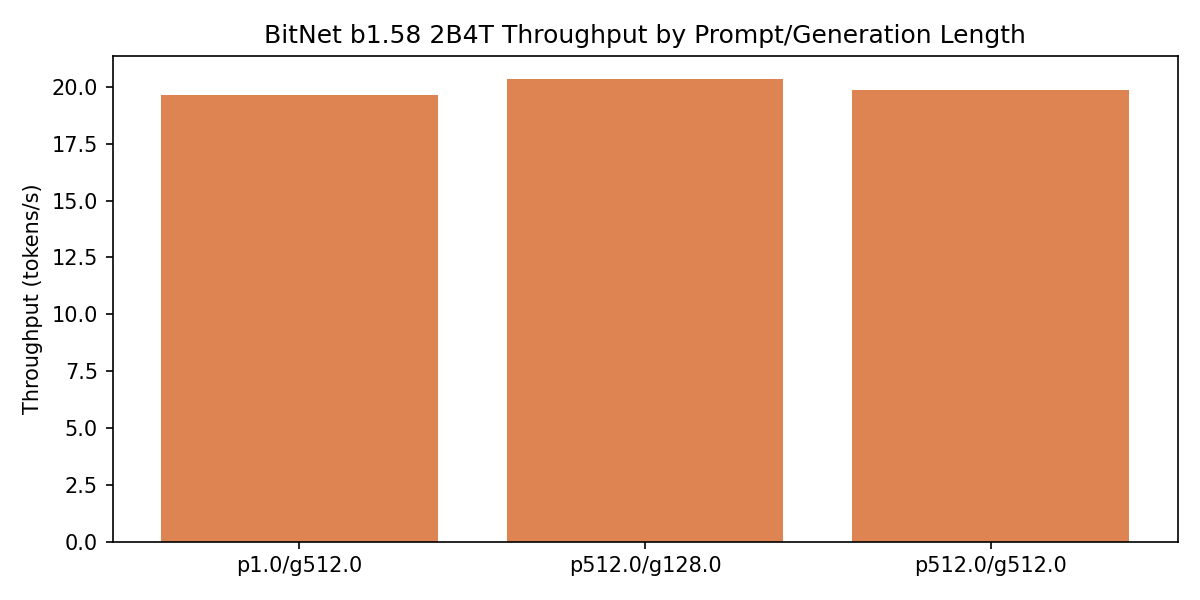
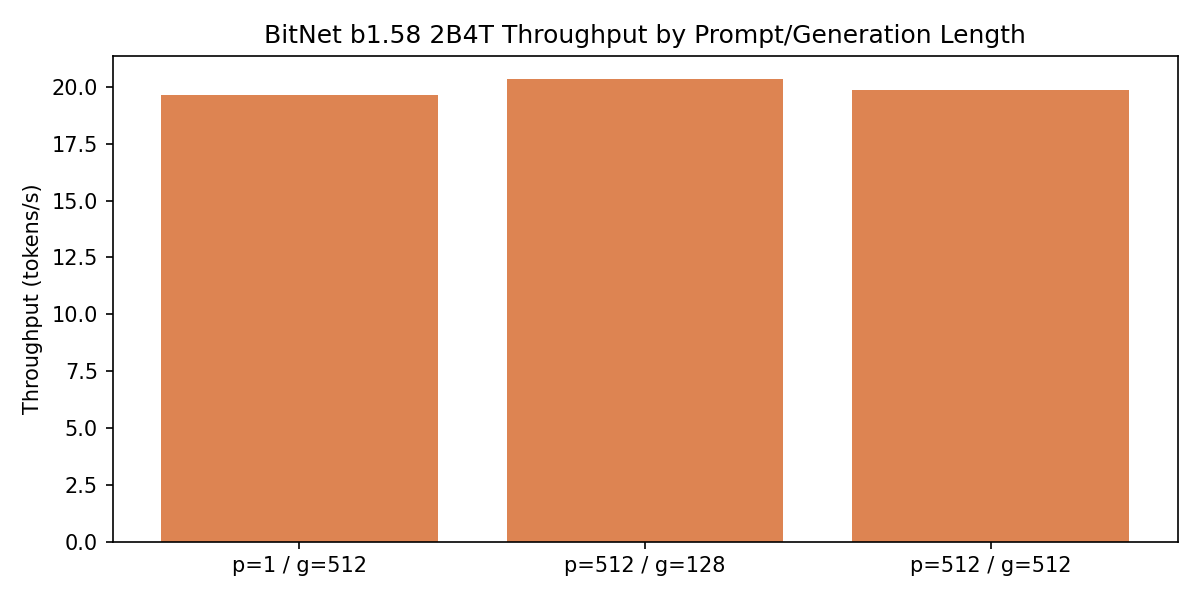
Improve comparison plots: paper vs ours, clean labels, Qwen-ready
- Add BitNet paper bar (hatched) to throughput and memory plots so
  each chart directly shows paper vs our measurement side-by-side
- Fix bitnet_throughput_configs x-axis labels from float notation
  (p512.0/g128.0) to readable form (p=512 / g=128)
- Plot_accuracy now accepts optional qwen_acc; Qwen ours column added
  when qwen_accuracy_results.json exists
- plot_throughput/memory/cost_accuracy all accept optional qwen_df
  and render a green Qwen ours bar/point when data is available
- Add --qwen-results and --qwen-accuracy CLI args; add load_qwen()
  and _qwen_row() helpers; build_comparison_df includes Qwen row
- smoke_test row-count check relaxed to >=7 to allow Qwen ours row

Changed region(s): [[0.74, 0.93, 0.8942, 0.96], [0.4625, 0.93, 0.6167, 0.96], [0.185, 0.93, 0.3083, 0.96]]

diff --git a/scripts/compare_runs.py b/scripts/compare_runs.py
@@ -31,6 +31,8 @@ PLOTS_DIR = Path(__file__).parent.parent / "results" / "plots"
 DEFAULT_CSV = Path(__file__).parent.parent / "results" / "step_metrics.csv"
 DEFAULT_ACCURACY_JSON = Path(__file__).parent.parent / "results" / "accuracy_results.json"
 DEFAULT_COMPARISON_CSV = Path(__file__).parent.parent / "results" / "comparison_table.csv"
+DEFAULT_QWEN_CSV = Path(__file__).parent.parent / "results" / "qwen_metrics.csv"
+DEFAULT_QWEN_ACCURACY_JSON = Path(__file__).parent.parent / "results" / "qwen_accuracy_results.json"
 
 # AWS c5.xlarge on-demand, us-east-1 (4 vCPUs — matches 4-thread benchmark condition)
 # Source: https://instances.vantage.sh/aws/ec2/c5.xlarge (retrieved 2026-05-08)
@@ -78,6 +80,8 @@ def parse_args():
     p = argparse.ArgumentParser()
     p.add_argument("--results", default=str(DEFAULT_CSV))
     p.add_argument("--accuracy", default=str(DEFAULT_ACCURACY_JSON))
+    p.add_argument("--qwen-results", default=str(DEFAULT_QWEN_CSV))
+    p.add_argument("--qwen-accuracy", default=str(DEFAULT_QWEN_ACCURACY_JSON))
     p.add_argument("--csv", default=str(DEFAULT_COMPARISON_CSV))
     p.add_argument(
         "--hardware-rate",
@@ -114,9 +118,27 @@ def load_accuracy(json_path: Path) -> dict:
     }
 
 
+def load_qwen(csv_path: Path) -> pd.DataFrame | None:
+    if not csv_path.exists():
+        return None
+    df = pd.read_csv(csv_path)
+    df = df[df["throughput_tokens_s"].notna() & (df["throughput_tokens_s"] != "")]
+    df["throughput_tokens_s"] = pd.to_numeric(df["throughput_tokens_s"])
+    df["peak_rss_mb"] = pd.to_numeric(df["peak_rss_mb"])
+    return df
+
+
 def _bitnet_row(local_df: pd.DataFrame) -> tuple[float | None, float | None]:
     """Return (median throughput, median peak_rss) for the n_prompt=512, n_gen=128 condition."""
     row = local_df[(local_df["n_prompt"] == 512) & (local_df["n_gen"] == 128)]
+    tps = row["throughput_tokens_s"].median() if not row.empty else None
+    rss = row["peak_rss_mb"].median() if not row.empty else None
+    return tps, rss
+
+
+def _qwen_row(qwen_df: pd.DataFrame) -> tuple[float | None, float | None]:
+    """Return (median throughput, median peak_rss) for Qwen at n_prompt=512, n_gen=128."""
+    row = qwen_df[(qwen_df["n_prompt"] == 512) & (qwen_df["n_gen"] == 128)]
     tps = row["throughput_tokens_s"].median() if not row.empty else None
     rss = row["peak_rss_mb"].median() if not row.empty else None
     return tps, rss
@@ -131,6 +153,8 @@ def build_comparison_df(
     local_df: pd.DataFrame,
     local_acc: dict,
     hardware_rate: float,
+    qwen_df: pd.DataFrame | None = None,
+    qwen_acc: dict | None = None,
 ) -> pd.DataFrame:
     ACC_FIELDS = ["arc_easy", "arc_challenge", "winogrande", "hellaswag", "mmlu"]
     rows = []
@@ -165,6 +189,19 @@ def build_comparison_df(
         **{f: (round(local_acc[f], 2) if local_acc.get(f) is not None else "") for f in ACC_FIELDS},
     })
 
+    if qwen_df is not None:
+        q_tps, q_rss = _qwen_row(qwen_df)
+        q_acc = qwen_acc or {}
+        q_cost = round(cost_per_1k(q_tps, hardware_rate), 6) if q_tps else ""
+        rows.append({
+            "model": "Qwen2.5-1.5B-Instruct Q8_0",
+            "source": "ours",
+            "throughput_tokens_s": round(q_tps, 2) if q_tps is not None else "",
+            "peak_rss_mb": round(q_rss, 0) if q_rss is not None else "",
+            "cost_per_1k_tokens": q_cost,
+            **{f: (round(q_acc[f], 2) if q_acc.get(f) is not None else "") for f in ACC_FIELDS},
+        })
+
     return pd.DataFrame(rows)
 
 
@@ -174,20 +211,49 @@ def write_comparison_csv(df: pd.DataFrame, out_path: Path) -> None:
     print(f"Saved {out_path}")
 
 
-def plot_throughput(local_df: pd.DataFrame, out_dir: Path):
+def plot_throughput(local_df: pd.DataFrame, out_dir: Path, qwen_df: pd.DataFrame | None = None):
+    from matplotlib.patches import Patch
+
     bitnet_tps, _ = _bitnet_row(local_df)
 
-    models = list(FP16_BASELINES.keys()) + ["BitNet b1.58 2B4T"]
-    values = [FP16_BASELINES[m]["throughput_tokens_s"] for m in FP16_BASELINES]
-    values.append(bitnet_tps if bitnet_tps else 0)
-    colors = ["#4C72B0"] * len(FP16_BASELINES) + ["#DD8452"]
+    models = (
+        list(FP16_BASELINES.keys())
+        + ["BitNet b1.58 2B4T (paper)", "BitNet b1.58 2B4T (ours)"]
+    )
+    values = (
+        [FP16_BASELINES[m]["throughput_tokens_s"] for m in FP16_BASELINES]
+        + [BITNET_PAPER["throughput_tokens_s"], bitnet_tps if bitnet_tps else 0]
+    )
+    colors  = ["#4C72B0"] * len(FP16_BASELINES) + ["#DD8452", "#DD8452"]
+    hatches = [""]        * len(FP16_BASELINES) + ["///",     ""]
 
-    fig, ax = plt.subplots(figsize=(10, 5))
-    bars = ax.barh(models, values, color=colors)
-    ax.bar_label(bars, fmt="%.1f", padding=4)
+    if qwen_df is not None:
+        q_tps, _ = _qwen_row(qwen_df)
+        models.append("Qwen2.5-1.5B-Instruct Q8_0 (ours)")
+        values.append(q_tps if q_tps else 0)
+        colors.append("#55A868")
+        hatches.append("")
+
+    fig, ax = plt.subplots(figsize=(10, max(5, len(models) * 0.55)))
+    max_val = max(v for v in values if v) or 1
+    for i, (val, color, hatch) in enumerate(zip(values, colors, hatches)):
+        ax.barh(i, val, color=color, hatch=hatch,
+                edgecolor="#444444" if hatch else "#cccccc", linewidth=0.5)
+        ax.text(val + max_val * 0.01, i, f"{val:.1f}", va="center", fontsize=9)
+    ax.set_yticks(range(len(models)))
+    ax.set_yticklabels(models)
     ax.set_xlabel("Throughput (tokens/s)")
     ax.set_title("Inference Throughput: BitNet b1.58 2B4T vs FP16 Baselines\n(n_prompt=512, n_gen=128, CPU)")
+    ax.set_xlim(0, max_val * 1.15)
     ax.invert_yaxis()
+    legend_handles = [
+        Patch(facecolor="#4C72B0", edgecolor="#cccccc", label="FP16 baseline (paper)"),
+        Patch(facecolor="#DD8452", hatch="///", edgecolor="#444444", label="BitNet b1.58 2B4T (paper)"),
+        Patch(facecolor="#DD8452", edgecolor="#cccccc", label="BitNet b1.58 2B4T (ours)"),
+    ]
+    if qwen_df is not None:
+        legend_handles.append(Patch(facecolor="#55A868", edgecolor="#cccccc", label="Qwen2.5-1.5B Q8_0 (ours)"))
+    ax.legend(handles=legend_handles, loc="lower right", fontsize=8)
     fig.tight_layout()
     path = out_dir / "throughput_comparison.png"
     fig.savefig(path, dpi=150)
@@ -195,20 +261,49 @@ def plot_throughput(local_df: pd.DataFrame, out_dir: Path):
     print(f"Saved {path}")
 
 
-def plot_memory(local_df: pd.DataFrame, out_dir: Path):
+def plot_memory(local_df: pd.DataFrame, out_dir: Path, qwen_df: pd.DataFrame | None = None):
+    from matplotlib.patches import Patch
+
     _, bitnet_rss = _bitnet_row(local_df)
 
-    models = list(FP16_BASELINES.keys()) + ["BitNet b1.58 2B4T"]
-    values = [FP16_BASELINES[m]["peak_rss_mb"] for m in FP16_BASELINES]
-    values.append(bitnet_rss if bitnet_rss else 0)
-    colors = ["#4C72B0"] * len(FP16_BASELINES) + ["#DD8452"]
+    models = (
+        list(FP16_BASELINES.keys())
+        + ["BitNet b1.58 2B4T (paper)", "BitNet b1.58 2B4T (ours)"]
+    )
+    values = (
+        [FP16_BASELINES[m]["peak_rss_mb"] for m in FP16_BASELINES]
+        + [BITNET_PAPER["peak_rss_mb"], bitnet_rss if bitnet_rss else 0]
+    )
+    colors  = ["#4C72B0"] * len(FP16_BASELINES) + ["#DD8452", "#DD8452"]
+    hatches = [""]        * len(FP16_BASELINES) + ["///",     ""]
 
-    fig, ax = plt.subplots(figsize=(10, 5))
-    bars = ax.barh(models, values, color=colors)
-    ax.bar_label(bars, fmt="%.0f MB", padding=4)
+    if qwen_df is not None:
+        _, q_rss = _qwen_row(qwen_df)
+        models.append("Qwen2.5-1.5B-Instruct Q8_0 (ours)")
+        values.append(q_rss if q_rss else 0)
+        colors.append("#55A868")
+        hatches.append("")
+
+    fig, ax = plt.subplots(figsize=(10, max(5, len(models) * 0.55)))
+    max_val = max(v for v in values if v) or 1
+    for i, (val, color, hatch) in enumerate(zip(values, colors, hatches)):
+        ax.barh(i, val, color=color, hatch=hatch,
+                edgecolor="#444444" if hatch else "#cccccc", linewidth=0.5)
+        ax.text(val + max_val * 0.01, i, f"{val:.0f} MB", va="center", fontsize=9)
+    ax.set_yticks(range(len(models)))
+    ax.set_yticklabels(models)
     ax.set_xlabel("Peak RSS (MB)")
     ax.set_title("Peak Memory: BitNet b1.58 2B4T vs FP16 Baselines\n(n_prompt=512, n_gen=128, CPU)")
+    ax.set_xlim(0, max_val * 1.18)
     ax.invert_yaxis()
+    legend_handles = [
+        Patch(facecolor="#4C72B0", edgecolor="#cccccc", label="FP16 baseline (paper)"),
+        Patch(facecolor="#DD8452", hatch="///", edgecolor="#444444", label="BitNet b1.58 2B4T (paper)"),
+        Patch(facecolor="#DD8452", edgecolor="#cccccc", label="BitNet b1.58 2B4T (ours)"),
+    ]
+    if qwen_df is not None:
+        legend_handles.append(Patch(facecolor="#55A868", edgecolor="#cccccc", label="Qwen2.5-1.5B Q8_0 (ours)"))
+    ax.legend(handles=legend_handles, loc="lower right", fontsize=8)
     fig.tight_layout()
     path = out_dir / "memory_comparison.png"
     fig.savefig(path, dpi=150)
@@ -218,7 +313,7 @@ def plot_memory(local_df: pd.DataFrame, out_dir: Path):
 
 def plot_throughput_by_config(local_df: pd.DataFrame, out_dir: Path):
     configs = local_df.groupby(["n_prompt", "n_gen"])["throughput_tokens_s"].median().reset_index()
-    labels = [f"p{row.n_prompt}/g{row.n_gen}" for _, row in configs.iterrows()]
+    labels = [f"p={int(row.n_prompt)} / g={int(row.n_gen)}" for _, row in configs.iterrows()]
 
     fig, ax = plt.subplots(figsize=(8, 4))
     ax.bar(labels, configs["throughput_tokens_s"], color="#DD8452")
@@ -231,7 +326,7 @@ def plot_throughput_by_config(local_df: pd.DataFrame, out_dir: Path):
     print(f"Saved {path}")
 
 
-def plot_accuracy(local_acc: dict, out_dir: Path):
+def plot_accuracy(local_acc: dict, out_dir: Path, qwen_acc: dict | None = None):
     # WinoGrande/HellaSwag omitted: our letter-scoring method is methodology-
     # incompatible with the paper's continuation scoring, giving near-random results.
     tasks = ["arc_easy", "arc_challenge", "mmlu"]
@@ -240,20 +335,22 @@ def plot_accuracy(local_acc: dict, out_dir: Path):
 
     fp16_models = list(FP16_BASELINES.keys())
     all_models = fp16_models + ["BitNet 2B4T\n(paper)", "BitNet 2B4T\n(ours)"]
+    if qwen_acc is not None:
+        all_models.append("Qwen2.5-1.5B\nQ8_0 (ours)")
 
     paper_vals = [BITNET_PAPER[t] for t in tasks]
     our_vals = [local_acc.get(t) or 0 for t in tasks]
 
     x = np.arange(len(all_models))
-    width = 0.25
-    offsets = np.array([-width, 0, width])
+    n_tasks = len(tasks)
+    width = 0.22
+    offsets = np.linspace(-(n_tasks - 1) * width / 2, (n_tasks - 1) * width / 2, n_tasks)
 
-    fig, ax = plt.subplots(figsize=(14, 6))
+    fig, ax = plt.subplots(figsize=(max(14, len(all_models) * 1.6), 6))
     for i, (task, label, color) in enumerate(zip(tasks, task_labels, task_colors)):
-        vals = (
-            [FP16_BASELINES[m][task] for m in fp16_models]
-            + [paper_vals[i], our_vals[i]]
-        )
+        vals = [FP16_BASELINES[m][task] for m in fp16_models] + [paper_vals[i], our_vals[i]]
+        if qwen_acc is not None:
+            vals.append(qwen_acc.get(task) or 0)
         ax.bar(x + offsets[i], vals, width, label=label, color=color)
 
     ax.set_xticks(x)
@@ -283,39 +380,43 @@ def plot_cost_accuracy(df: pd.DataFrame, out_dir: Path, hardware_rate: float):
 
     fig, ax = plt.subplots(figsize=(10, 6))
 
-    styles = {
-        "paper (FP16)": {"color": "#4C72B0", "marker": "o", "s": 100, "label": "FP16 baselines (paper)"},
-        "paper":        {"color": "#DD8452", "marker": "o", "s": 100, "label": "BitNet b1.58 2B4T (paper)"},
-        "ours":         {"color": "#DD8452", "marker": "D", "s": 100, "label": "BitNet b1.58 2B4T (ours, 0-shot MMLU)"},
-    }
+    QWEN_MODEL_NAME = "Qwen2.5-1.5B-Instruct Q8_0"
 
-    for source, style in styles.items():
-        subset = plot_df[plot_df["source"] == source]
-        if subset.empty:
-            continue
+    for _, row in plot_df.iterrows():
+        source = row["source"]
+        model = row["model"]
+        is_qwen_ours = source == "ours" and model == QWEN_MODEL_NAME
+        if source == "paper (FP16)":
+            color, marker, label = "#4C72B0", "o", None
+        elif source == "paper":
+            color, marker, label = "#DD8452", "o", "BitNet b1.58 2B4T (paper)"
+        elif is_qwen_ours:
+            color, marker, label = "#55A868", "D", "Qwen2.5-1.5B Q8_0 (ours, 0-shot MMLU)"
+        else:
+            color, marker, label = "#DD8452", "D", "BitNet b1.58 2B4T (ours, 0-shot MMLU)"
+
         ax.scatter(
-            subset["cost_per_1k_tokens"],
-            subset["mmlu"],
-            color=style["color"],
-            marker=style["marker"],
-            s=style["s"],
-            label=style["label"],
-            zorder=3,
+            row["cost_per_1k_tokens"], row["mmlu"],
+            color=color, marker=marker, s=100, label=label, zorder=3,
         )
-        for _, row in subset.iterrows():
-            label = row["model"].replace(" b1.58 2B4T", "").replace(" (FP16)", "")
-            ax.annotate(
-                label,
-                (row["cost_per_1k_tokens"], row["mmlu"]),
-                textcoords="offset points",
-                xytext=(6, 4),
-                fontsize=8,
-            )
+        ann_label = model.replace(" b1.58 2B4T", "").replace(" (FP16)", "").replace(" Q8_0", "")
+        ax.annotate(
+            ann_label,
+            (row["cost_per_1k_tokens"], row["mmlu"]),
+            textcoords="offset points", xytext=(6, 4), fontsize=8,
+        )
+
+    # De-duplicate legend entries
+    handles, labels_list = ax.get_legend_handles_labels()
+    seen: dict = {}
+    for h, l in zip(handles, labels_list):
+        if l and l not in seen:
+            seen[l] = h
+    ax.legend(seen.values(), seen.keys(), fontsize=9)
 
     ax.set_xlabel(f"Cost per 1,000 tokens (USD, c5.xlarge @ ${hardware_rate:.3f}/hr)")
     ax.set_ylabel("MMLU Accuracy (%)")
     ax.set_title("Cost–Accuracy Trade-off: BitNet b1.58 2B4T vs FP16 Baselines")
-    ax.legend(fontsize=9)
     ax.grid(True, alpha=0.3)
     fig.tight_layout()
     path = out_dir / "cost_accuracy.png"
@@ -328,15 +429,17 @@ def main():
     args = parse_args()
     local_df = load_local(Path(args.results))
     local_acc = load_accuracy(Path(args.accuracy))
+    qwen_df = load_qwen(Path(args.qwen_results))
+    qwen_acc = load_accuracy(Path(args.qwen_accuracy)) if qwen_df is not None else None
     PLOTS_DIR.mkdir(parents=True, exist_ok=True)
 
-    comparison_df = build_comparison_df(local_df, local_acc, args.hardware_rate)
+    comparison_df = build_comparison_df(local_df, local_acc, args.hardware_rate, qwen_df, qwen_acc)
     write_comparison_csv(comparison_df, Path(args.csv))
 
-    plot_throughput(local_df, PLOTS_DIR)
-    plot_memory(local_df, PLOTS_DIR)
+    plot_throughput(local_df, PLOTS_DIR, qwen_df)
+    plot_memory(local_df, PLOTS_DIR, qwen_df)
     plot_throughput_by_config(local_df, PLOTS_DIR)
-    plot_accuracy(local_acc, PLOTS_DIR)
+    plot_accuracy(local_acc, PLOTS_DIR, qwen_acc)
     plot_cost_accuracy(comparison_df, PLOTS_DIR, args.hardware_rate)
 
     print(f"\nAll plots saved to {PLOTS_DIR}")

diff --git a/scripts/smoke_test.py b/scripts/smoke_test.py
@@ -267,7 +267,7 @@ check("comparison_table.csv exists", csv_path.exists())
 if csv_path.exists():
     with csv_path.open(newline="") as f:
         rows = list(csv.DictReader(f))
-    check("7 data rows (5 FP16 + paper + ours)", len(rows) == 7, f"got {len(rows)}")
+    check("≥7 data rows (5 FP16 + paper + ours [+ Qwen ours])", len(rows) >= 7, f"got {len(rows)}")
     required_cols = {
         "model", "source", "throughput_tokens_s", "peak_rss_mb",
         "cost_per_1k_tokens", "arc_easy", "arc_challenge", "winogrande", "hellaswag", "mmlu",
